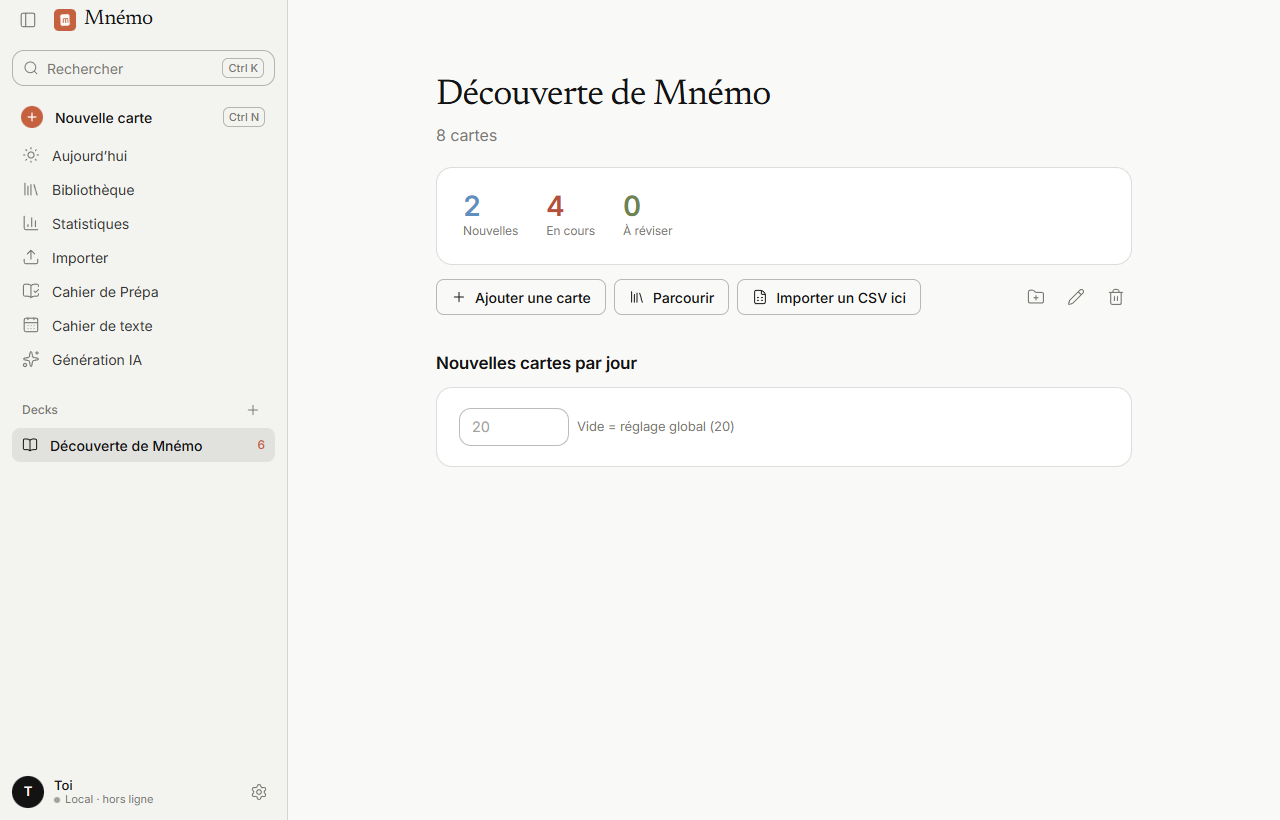
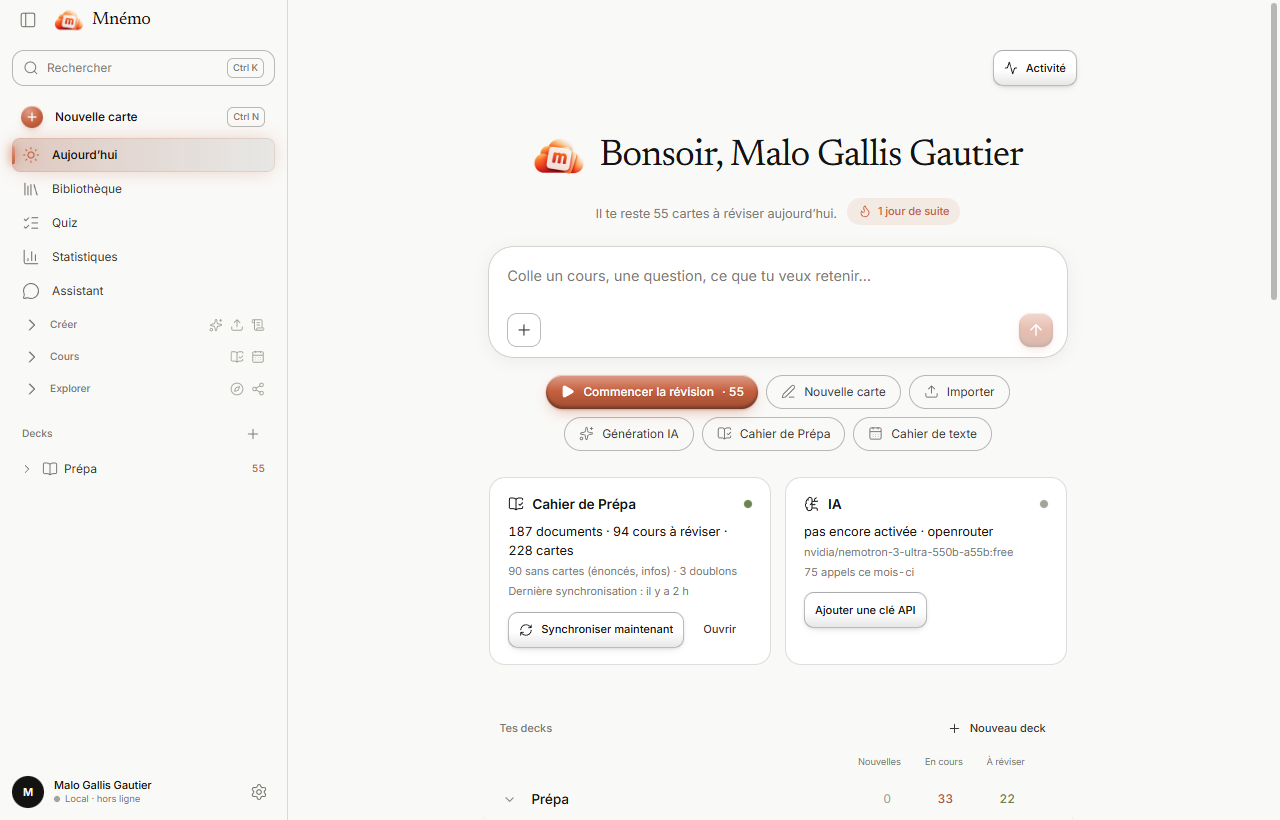
README : nouvelles captures d'écran (thèmes clair et sombre, vraies données)

diff --git a/src/main/qa-shots.ts b/src/main/qa-shots.ts
@@ -1,0 +1,148 @@
+import type { BrowserWindow } from 'electron'
+import { mkdirSync, writeFileSync } from 'fs'
+import { join } from 'path'
+
+/**
+ * Captures du README : MNEMO_QA_SHOTS=1, MNEMO_QA_DIR=<sortie>. Données de démonstration fictives, fenêtre jamais affichée.
+ * Les images sont ensuite copiées dans docs/screenshots.
+ */
+export async function runShots(win: BrowserWindow, outDir: string): Promise<void> {
+  mkdirSync(outDir, { recursive: true })
+  const wc = win.webContents
+  const log: string[] = []
+  const wait = (ms: number): Promise<void> => new Promise((r) => setTimeout(r, ms))
+  const js = <T>(code: string): Promise<T> => wc.executeJavaScript(code) as Promise<T>
+  const invoke = <T>(ch: string, ...args: unknown[]): Promise<T> => js<T>(`window.mnemo.invoke(${JSON.stringify(ch)}, ...${JSON.stringify(args)})`)
+  const go = async (route: object): Promise<void> => {
+    await js(`window.__mnemo.getState().go(${JSON.stringify(route)})`)
+    await wait(1100)
+  }
+  const shot = async (name: string): Promise<void> => {
+    await wait(500)
+    writeFileSync(join(outDir, `${name}.png`), (await wc.capturePage()).toPNG())
+    log.push(`ok     ${name}`)
+  }
+  const key = async (keyCode: string): Promise<void> => {
+    wc.sendInputEvent({ type: 'keyDown', keyCode })
+    wc.sendInputEvent({ type: 'char', keyCode })
+    wc.sendInputEvent({ type: 'keyUp', keyCode })
+    await wait(300)
+  }
+  const day = 86400000
+
+  try {
+    await wait(1500)
+    await invoke('settings.set', { onboarded: true, tourDone: true, theme: 'light', skin: '', accentColor: '', userName: 'Léa' })
+    await js('location.reload()')
+    await wait(1500)
+
+    const decks: Record<string, [string, string][]> = {
+      'Prépa ECG::Mathématiques::Analyse': [
+        ['Définition d’une suite $(u_n)$ **convergente** vers $\\ell$ ?', 'Pour tout $\\varepsilon > 0$, il existe $N$ tel que $n \\geq N \\Rightarrow |u_n - \\ell| \\leq \\varepsilon$.'],
+        ['Théorème de la limite monotone ?', 'Toute suite croissante et majorée converge ; croissante et non majorée tend vers $+\\infty$.'],
+        ['Dérivée de $x \\mapsto \\ln(u(x))$ ?', '$$\\frac{u\'(x)}{u(x)}$$'],
+        ['Formule de Taylor avec reste intégral ?', '$$f(b) = \\sum_{k=0}^{n} \\frac{f^{(k)}(a)}{k!}(b-a)^k + \\int_a^b \\frac{(b-t)^n}{n!} f^{(n+1)}(t)\\,dt$$'],
+        ['Théorème des valeurs intermédiaires ?', 'Si $f$ est continue sur $[a,b]$, elle prend toute valeur entre $f(a)$ et $f(b)$.'],
+        ['Intégration par parties ?', '$$\\int_a^b u v\' = [uv]_a^b - \\int_a^b u\'v$$']
+      ],
+      'Prépa ECG::Mathématiques::Algèbre linéaire': [
+        ['Théorème du rang ?', '$\\dim E = \\dim \\ker f + \\operatorname{rg} f$'],
+        ['Quand une matrice $A \\in \\mathcal{M}_n(\\mathbb{R})$ est-elle inversible ?', 'Quand $\\operatorname{rg}(A) = n$, ou $\\ker A = \\{0\\}$.'],
+        ['Valeurs propres d’une matrice triangulaire ?', 'Ses coefficients diagonaux.'],
+        ['Une matrice symétrique réelle est…', 'diagonalisable dans une base orthonormée (théorème spectral).']
+      ],
+      'Prépa ECG::Mathématiques::Probabilités': [
+        ['Espérance d’une loi binomiale $\\mathcal{B}(n,p)$ ?', '$np$, et la variance vaut $np(1-p)$.'],
+        ['Formule des probabilités totales ?', '$$P(B) = \\sum_i P(A_i)\\,P(B \\mid A_i)$$'],
+        ['Inégalité de Bienaymé-Tchebychev ?', '$$P(|X - E(X)| \\geq \\varepsilon) \\leq \\frac{V(X)}{\\varepsilon^2}$$'],
+        ['Loi faible des grands nombres ?', 'La moyenne empirique converge en probabilité vers l’espérance.']
+      ],
+      'Prépa ECG::Économie::Macroéconomie': [
+        ['Que mesure le PIB ?', 'La valeur ajoutée totale produite sur un territoire pendant une période.'],
+        ['Effet d’éviction ?', 'Quand la dépense publique financée par l’emprunt fait monter les taux et réduit l’investissement privé.'],
+        ['Courbe de Phillips ?', 'Relation inverse, à court terme, entre inflation et chômage.'],
+        ['Multiplicateur keynésien ?', '$$k = \\frac{1}{1 - c}$$ où $c$ est la propension marginale à consommer.']
+      ],
+      'Prépa ECG::Histoire-Géographie::Monde contemporain': [
+        ['Date de la chute du mur de Berlin ?', '**9 novembre 1989.**'],
+        ['Qu’est-ce que la doctrine Truman ?', 'La politique américaine d’endiguement du communisme (1947).'],
+        ['Traité de Rome ?', 'Crée la CEE en **1957**.']
+      ]
+    }
+    const ids: string[] = []
+    for (const [name, cards] of Object.entries(decks)) {
+      const deckId = await invoke<string>('deck.create', name, null)
+      for (const [front, back] of cards) await invoke('note.add', { kind: 'basic', deckId, fields: { front, back }, tags: [] })
+      ids.push(deckId)
+    }
+    await invoke('note.add', {
+      kind: 'cloze',
+      deckId: ids[0],
+      fields: { text: 'Une suite {{c1::croissante et majorée}} est {{c2::convergente}}.', extra: 'Théorème de la limite monotone.' },
+      tags: []
+    })
+
+    // Un peu d'historique de révision pour que les statistiques et l'accueil soient vivants.
+    const ratings = [3, 3, 4, 3, 2, 3, 4, 3, 1, 3, 3, 4]
+    for (let i = 0; i < ratings.length; i++) {
+      const next = await invoke<{ cardId: string } | null>('study.next', null)
+      if (!next) break
+      await invoke('study.answer', next.cardId, ratings[i], 4000 + i * 700)
+    }
+
+    // Cahier de texte : matières, devoirs, colle, cours.
+    const maths = await invoke<string>('subject.save', { name: 'Mathématiques' })
+    const eco = await invoke<string>('subject.save', { name: 'Économie' })
+    const hg = await invoke<string>('subject.save', { name: 'Histoire-Géographie' })
+    const now = Date.now()
+    await invoke('entry.save', { title: 'DS n°4 — Analyse et probabilités', kind: 'examen', subjectId: maths, dueAt: now + 4 * day, notes: 'Chapitres 8 à 11', status: 'todo', deckIds: [ids[0], ids[2]] })
+    await invoke('entry.save', { title: 'Colle d’économie', kind: 'examen', subjectId: eco, dueAt: now + 2 * day, notes: 'Politiques conjoncturelles', status: 'todo', deckIds: [ids[3]] })
+    await invoke('entry.save', { title: 'DM — Algèbre linéaire', kind: 'devoir', subjectId: maths, dueAt: now + 6 * day, notes: '', status: 'todo', deckIds: [ids[1]] })
+    await invoke('entry.save', { title: 'Fiche : la guerre froide', kind: 'cours', subjectId: hg, dueAt: now - 1 * day, notes: '', status: 'done', deckIds: [ids[4]] })
+    await invoke('task.save', { title: 'Refaire les exercices 12 à 15', subjectId: maths, dueAt: now + 1 * day })
+    await invoke('task.save', { title: 'Relire le chapitre sur le multiplicateur', subjectId: eco, dueAt: now + 2 * day })
+
+    await js('location.reload()')
+    await wait(1500)
+
+    // Clair
+    await go({ name: 'home' })
+    await shot('accueil')
+    await go({ name: 'deck', id: ids[0] })
+    await shot('deck')
+    await go({ name: 'library' })
+    await shot('bibliotheque')
+    await go({ name: 'stats' })
+    await shot('statistiques')
+    await go({ name: 'notebook' })
+    await shot('planning')
+    await go({ name: 'ai' })
+    await shot('ia')
+    await go({ name: 'prepa' })
+    await shot('cahier-de-prepa')
+    await go({ name: 'home' })
+    await js(`window.__mnemo.getState().openImport({})`)
+    await wait(1800)
+    await shot('import')
+    await js(`window.__mnemo.getState().openImport(null)`)
+    await wait(400)
+
+    // Révision : question puis réponse.
+    await go({ name: 'review', deckId: ids[2] })
+    await shot('revision-question')
+    await key(' ')
+    await shot('revision')
+
+    // Sombre
+    await js(`window.__mnemo.getState().patchSettings({ theme: 'dark' })`)
+    await wait(900)
+    await shot('revision-sombre')
+    await js(`window.__mnemo.getState().go({ name: 'home' })`)
+    await wait(1000)
+    await shot('accueil-sombre')
+  } catch (e) {
+    log.push(`EXCEPTION ${e instanceof Error ? e.stack : String(e)}`)
+  } finally {
+    writeFileSync(join(outDir, 'shots.txt'), log.join(String.fromCharCode(10)))
+  }
+}

diff --git a/src/main/qa-realshots.ts b/src/main/qa-realshots.ts
@@ -1,0 +1,98 @@
+import type { BrowserWindow } from 'electron'
+import { mkdirSync, writeFileSync } from 'fs'
+import { join } from 'path'
+
+/**
+ * Captures du README avec les VRAIES données : MNEMO_QA_REALSHOTS=1, MNEMO_QA_DIR=<sortie>,
+ * MNEMO_USER_DATA=<copie de la base>. Aucune donnée n'est modifiée ; fenêtre jamais affichée.
+ */
+export async function runRealShots(win: BrowserWindow, outDir: string): Promise<void> {
+  mkdirSync(outDir, { recursive: true })
+  const wc = win.webContents
+  const log: string[] = []
+  const wait = (ms: number): Promise<void> => new Promise((r) => setTimeout(r, ms))
+  const js = <T>(code: string): Promise<T> => wc.executeJavaScript(code) as Promise<T>
+  const invoke = <T>(ch: string, ...args: unknown[]): Promise<T> => js<T>(`window.mnemo.invoke(${JSON.stringify(ch)}, ...${JSON.stringify(args)})`)
+  const go = async (route: object): Promise<void> => {
+    await js(`window.__mnemo.getState().go(${JSON.stringify(route)})`)
+    await wait(1400)
+  }
+  const shot = async (name: string): Promise<void> => {
+    await wait(500)
+    writeFileSync(join(outDir, `${name}.png`), (await wc.capturePage()).toPNG())
+    log.push(`ok     ${name}`)
+  }
+  const key = async (keyCode: string): Promise<void> => {
+    wc.sendInputEvent({ type: 'keyDown', keyCode })
+    wc.sendInputEvent({ type: 'char', keyCode })
+    wc.sendInputEvent({ type: 'keyUp', keyCode })
+    await wait(300)
+  }
+
+  try {
+    await wait(2000)
+    const decks = await invoke<{ id: string; name: string; fullName: string; hasChildren: boolean; totalCards: number; dueCount: number; newCount: number; learnCount: number }[]>('deck.list')
+    const settings = await invoke<{ userName: string; theme: string }>('settings.get')
+    log.push(`info   nom=${settings.userName} thème=${settings.theme} decks=${decks.length}`)
+    for (const d of decks.slice(0, 40)) log.push(`info   deck ${d.fullName} (${d.totalCards} cartes, ${d.dueCount + d.newCount + d.learnCount} à faire)`)
+    const leaves = decks.filter((d) => !d.hasChildren && d.totalCards > 0)
+    const todo = (d: (typeof decks)[number]): number => d.dueCount + d.newCount + d.learnCount
+    const best = [...leaves].sort((a, b) => todo(b) - todo(a) || b.totalCards - a.totalCards)[0]
+    log.push(`info   deck choisi : ${best ? best.fullName : 'aucun'}`)
+
+    await js('location.reload()')
+    await wait(2000)
+    const setTheme = async (t: string): Promise<void> => {
+      await invoke('settings.set', { theme: t, skin: '', accentColor: '' })
+      await js('location.reload()')
+      await wait(2200)
+    }
+
+    // Clair : les captures principales du README.
+    await setTheme('light')
+    await go({ name: 'home' })
+    await shot('accueil')
+    if (best) {
+      await go({ name: 'deck', id: best.id })
+      await shot('deck')
+    }
+    await go({ name: 'library' })
+    await shot('bibliotheque')
+    await go({ name: 'stats' })
+    await shot('statistiques')
+    await go({ name: 'notebook' })
+    await shot('planning')
+    await go({ name: 'sheets' })
+    await shot('fiches')
+    await go({ name: 'ai' })
+    await wait(4000)
+    await js(`document.querySelectorAll('.la-where code').forEach((e) => { e.textContent = String.fromCharCode(67, 58, 92) + 'Users' + String.fromCharCode(92) + 'Toi' + String.fromCharCode(92) + 'AppData' + String.fromCharCode(92) + 'Roaming' + String.fromCharCode(92) + 'Mnemo' + String.fromCharCode(92) + 'models' })`)
+    await shot('ia')
+    await go({ name: 'prepa' })
+    await shot('cahier-de-prepa')
+    await go({ name: 'home' })
+    await js(`window.__mnemo.getState().openImport({})`)
+    await wait(1800)
+    await shot('import')
+    await js(`window.__mnemo.getState().openImport(null)`)
+    await wait(400)
+    await go({ name: 'review', deckId: best ? best.id : null })
+    await shot('revision-question')
+    await key(' ')
+    await shot('revision')
+
+    // Sombre.
+    await setTheme('dark')
+    await shot('revision-sombre')
+    await go({ name: 'home' })
+    await shot('accueil-sombre')
+    await go({ name: 'stats' })
+    await shot('statistiques-sombre')
+    await go({ name: 'library' })
+    await shot('bibliotheque-sombre')
+  } catch (e) {
+    log.push(`EXCEPTION ${e instanceof Error ? e.stack : String(e)}`)
+  } finally {
+    writeFileSync(join(outDir, 'realshots.txt'), log.join(String.fromCharCode(10)))
+  }
+}

diff --git a/src/main/index.ts b/src/main/index.ts
@@ -201,7 +201,7 @@ if (!app.requestSingleInstanceLock()) {
     if (process.env.MNEMO_QA_DIR && mainWindow) {
       const win = mainWindow
       win.webContents.once('did-finish-load', () => {
-        const load = process.env.MNEMO_QA_HOVER ? import('./qa-hover').then((m) => m.runHover) : process.env.MNEMO_QA_KEEP ? import('./qa-keep').then((m) => m.runKeep) : process.env.MNEMO_QA_BUTTONS ? import('./qa-buttons').then((m) => m.runButtons) : process.env.MNEMO_QA_OCR ? import('./qa-ocr').then((m) => m.runOcr) : process.env.MNEMO_QA_PERF ? import('./qa-perf').then((m) => m.runPerf) : process.env.MNEMO_QA_TOUR ? import('./qa-tour').then((m) => m.runTour) : process.env.MNEMO_QA_ECO ? import('./qa-eco').then((m) => m.runEco) : process.env.MNEMO_QA_MATH ? import('./qa-math').then((m) => m.runMath) : process.env.MNEMO_QA_QUIZ ? import('./qa-quiz').then((m) => m.runQuiz) : process.env.MNEMO_QA_ASSISTANT ? import('./qa-assistant').then((m) => m.runAssistant) : process.env.MNEMO_QA_BRIDGE ? import('./qa-bridge').then((m) => m.runBridge) : process.env.MNEMO_QA_SKINS ? import('./qa-skins').then((m) => m.runSkins) : process.env.MNEMO_QA_OCCLUSION ? import('./qa-occlusion').then((m) => m.runOcclusion) : process.env.MNEMO_QA_KEY ? import('./qa-key').then((m) => m.runKey) : process.env.MNEMO_QA_PDFEXPORT ? import('./qa-pdf').then((m) => m.runPdfExport) : process.env.MNEMO_QA_SHEET ? import('./qa-sheet').then((m) => m.runSheet) : process.env.MNEMO_QA_COLORS ? import('./qa-colors').then((m) => m.runColors) : process.env.MNEMO_QA_LAYOUT ? import('./qa-layout').then((m) => m.runLayout) : process.env.MNEMO_QA_REVIEW ? import('./qa-review').then((m) => m.runReview) : process.env.MNEMO_QA_CARDS ? import('./qa-cards').then((m) => m.runCards) : process.env.MNEMO_QA_TRIAGE ? import('./qa-triage').then((m) => m.runTriage) : process.env.MNEMO_QA_HOME ? import('./qa-home').then((m) => m.runHome) : process.env.MNEMO_QA_VIEWER ? import('./qa-viewer').then((m) => m.runViewer) : process.env.MNEMO_QA_SIZES ? import('./qa-sizes').then((m) => m.runSizes) : import('./qa').then((m) => m.runQa)
+        const load = process.env.MNEMO_QA_REALSHOTS ? import('./qa-realshots').then((m) => m.runRealShots) : process.env.MNEMO_QA_SHOTS ? import('./qa-shots').then((m) => m.runShots) : process.env.MNEMO_QA_HOVER ? import('./qa-hover').then((m) => m.runHover) : process.env.MNEMO_QA_KEEP ? import('./qa-keep').then((m) => m.runKeep) : process.env.MNEMO_QA_BUTTONS ? import('./qa-buttons').then((m) => m.runButtons) : process.env.MNEMO_QA_OCR ? import('./qa-ocr').then((m) => m.runOcr) : process.env.MNEMO_QA_PERF ? import('./qa-perf').then((m) => m.runPerf) : process.env.MNEMO_QA_TOUR ? import('./qa-tour').then((m) => m.runTour) : process.env.MNEMO_QA_ECO ? import('./qa-eco').then((m) => m.runEco) : process.env.MNEMO_QA_MATH ? import('./qa-math').then((m) => m.runMath) : process.env.MNEMO_QA_QUIZ ? import('./qa-quiz').then((m) => m.runQuiz) : process.env.MNEMO_QA_ASSISTANT ? import('./qa-assistant').then((m) => m.runAssistant) : process.env.MNEMO_QA_BRIDGE ? import('./qa-bridge').then((m) => m.runBridge) : process.env.MNEMO_QA_SKINS ? import('./qa-skins').then((m) => m.runSkins) : process.env.MNEMO_QA_OCCLUSION ? import('./qa-occlusion').then((m) => m.runOcclusion) : process.env.MNEMO_QA_KEY ? import('./qa-key').then((m) => m.runKey) : process.env.MNEMO_QA_PDFEXPORT ? import('./qa-pdf').then((m) => m.runPdfExport) : process.env.MNEMO_QA_SHEET ? import('./qa-sheet').then((m) => m.runSheet) : process.env.MNEMO_QA_COLORS ? import('./qa-colors').then((m) => m.runColors) : process.env.MNEMO_QA_LAYOUT ? import('./qa-layout').then((m) => m.runLayout) : process.env.MNEMO_QA_REVIEW ? import('./qa-review').then((m) => m.runReview) : process.env.MNEMO_QA_CARDS ? import('./qa-cards').then((m) => m.runCards) : process.env.MNEMO_QA_TRIAGE ? import('./qa-triage').then((m) => m.runTriage) : process.env.MNEMO_QA_HOME ? import('./qa-home').then((m) => m.runHome) : process.env.MNEMO_QA_VIEWER ? import('./qa-viewer').then((m) => m.runViewer) : process.env.MNEMO_QA_SIZES ? import('./qa-sizes').then((m) => m.runSizes) : import('./qa').then((m) => m.runQa)
         load
           .then((run) => run(win, process.env.MNEMO_QA_DIR as string))
           .catch((e) => console.error('QA', e))

diff --git a/README.md b/README.md
@@ -5,7 +5,9 @@
 **Une application de révision par cartes mémoire, gratuite, qui marche sans internet et sans compte.**
 Tes cartes restent sur ton ordinateur. Elle remplace Anki avec une interface plus simple, une IA gratuite intégrée, et un import en un clic de tes cours depuis le **Cahier de Prépa**.
 
-![Accueil](docs/screenshots/accueil.png)
+| Thème clair | Thème sombre |
+| --- | --- |
+| ![Accueil, thème clair](docs/screenshots/accueil.png) | ![Accueil, thème sombre](docs/screenshots/accueil-sombre.png) |
 
 ## ⬇ Télécharger Mnémo
 
@@ -352,7 +354,15 @@ Au premier lancement, Mnémo te propose trois choses, toutes facultatives : impo
 | Réviser | **Commencer la révision** sur l'accueil |
 | Partager un deck, dessiner un schéma, changer les couleurs | Voir le [chapitre 6](#6-partager-dessiner-personnaliser) |
 
-![Révision](docs/screenshots/revision.png)
+| Thème clair | Thème sombre |
+| --- | --- |
+| ![Révision d’une carte, thème clair](docs/screenshots/revision.png) | ![Révision d’une carte, thème sombre](docs/screenshots/revision-sombre.png) |
+
+La **bibliothèque** retrouve n’importe quelle carte, et les **statistiques** montrent ce que ta mémoire fait vraiment :
+
+![Bibliothèque](docs/screenshots/bibliotheque.png)
+
+![Statistiques](docs/screenshots/statistiques.png)
 
 **Réviser** : lis la question, réfléchis, appuie sur `Espace` pour voir la réponse, puis note-toi honnêtement : `1` À revoir · `2` Difficile · `3` Bien · `4` Facile. Mnémo décide seul quand te reposer la carte (algorithme FSRS). `Z` annule la dernière réponse.
 
@@ -393,6 +403,10 @@ Clique sur **Importer** (menu de gauche) **ou glisse un fichier dans la fenêtre
 Mnémo lit le site de ta classe (par exemple `cahier-de-prepa.fr/ecg1-clemenceau/`), télécharge les documents, les range **par matière**, crée **les decks**, **les cartes** et **une fiche de révision** pour chaque cours, et met les **DS et colles** de l'agenda dans ton cahier de texte.
 
 ![Cahier de Prépa](docs/screenshots/cahier-de-prepa.png)
+
+Chaque cours reçoit aussi une **fiche de révision** :
+
+![Fiches de révision](docs/screenshots/fiches.png)
 
 1. Menu de gauche → **Cahier de Prépa**.
 2. Vérifie l'adresse de ta classe, clique sur **Analyser le site**. Sans te connecter, tu vois les contenus publics.
